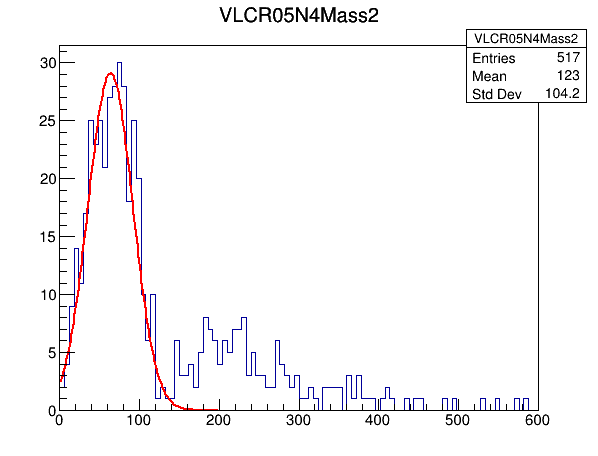
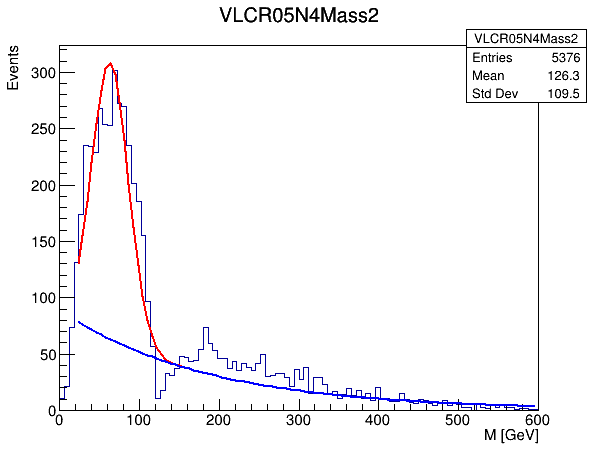
Adding Gaussians fit with exponential background

diff --git a/Delphes/src/AnalyzeM.C b/Delphes/src/AnalyzeM.C
@@ -55,13 +55,13 @@ void AnalyzeM(const char *inputFile, const char *outputFile){
 
      Int_t nEntries = tree_sig->GetEntries();
 
-     TH1D *VLCR05N4Mass1 = new TH1D("VLCR05N4Mass1", "VLCR05N4Mass1", 100 , 0, 300); 
+     TH1D *VLCR05N4Mass1 = new TH1D("VLCR05N4Mass1", "VLCR05N4Mass1", 100 , 0, 600); 
      TH1D *VLCR05N4Mass2 = new TH1D("VLCR05N4Mass2", "VLCR05N4Mass2", 100 , 0, 600); 
      TH1D *GenVLCMass2 = new TH1D("GenVLCMass2", "GenVLCMass2", 100 , 0, 600); 
      TH1D *VLCGenMass2Comp = new TH1D("VLCGenMass2Comp", "VLCGenMass2Comp", 100 , -1.5, 1.5); 
 
-     TH1D *AKTjetMass1 = new TH1D("AKTjetMass1", "AKTjetMass1", 100 , 0, 300); 
-     TH1D *AKTjetMass2 = new TH1D("AKTjetMass2", "AKTjetMass2", 100 , 0, 600); 
+     TH1D *AKTjetMass1 = new TH1D("AKTjetMass1", "Anti_KTjet leading jets pair invariant mass", 100 , 0, 600); 
+     TH1D *AKTjetMass2 = new TH1D("AKTjetMass2", "Anti_KTjet sub-leading jets pair invariant mass", 100 , 0, 600); 
      TH1D *GenAKTMass2 = new TH1D("GenAKTMass2", "GenAKTMass2", 100 , 0, 600); 
      TH1D *AKTGenMass2Comp = new TH1D("AKTGenMass2Comp", "AKTGenMass2Comp", 100 , -1.5, 1.5); 
      
@@ -261,7 +261,7 @@ void AnalyzeM(const char *inputFile, const char *outputFile){
 	     cout << "the second jet pair in the "<<entry<< "th event failed check."<<endl;	 
          }*/
 
-	 if (nAKTjet == 4) {
+	 if (nAKTjet >= 4) {
              //Pairing up leading anti-KT jet pair
 	     for(Int_t akt1entry=0; akt1entry < nAKTjet; akt1entry++){
 	         for(Int_t akt2entry=akt1entry+1; akt2entry < nAKTjet; akt2entry++){
@@ -351,9 +351,9 @@ void AnalyzeM(const char *inputFile, const char *outputFile){
 	             jet1DeltaR = jet1DeltaRtmp;
 		     jet1entry = gen1entry;
 		     if (jet1DeltaR < 0.5){
-		         //if (abs(Gen1eta) < 2.25){
+		         if (abs(Gen1eta) < 2.25){
 		             AKT1flag = true;
-		         //}
+		         }
 		     }
 	         }  
              }
@@ -366,9 +366,9 @@ void AnalyzeM(const char *inputFile, const char *outputFile){
 	                 jet2DeltaR = jet2DeltaRtmp;
 		         jet2entry = gen2entry;
                          if (jet2DeltaR < 0.5){
-		             //if (abs(Gen2eta) < 2.25){
+		             if (abs(Gen2eta) < 2.25){
 		                 AKT2flag = true;
-			     //}
+			     }
 		         }
 	             }
 	         }
@@ -411,49 +411,85 @@ void AnalyzeM(const char *inputFile, const char *outputFile){
          }
 	 GenUncutMass2->Fill(GenJetMass);
      }
-     TF1 *jetpair1gausfit = new TF1("jetpair1gausfit", "gaus",20,220);
-     TF1 *jetpair2gausfit = new TF1("jetpair2gausfit", "gaus",0,200);
-     
+     TF1 *jetpair1fit = new TF1("jetpair1fit", "gaus",10,200);
+     TF1 *jetpair2fit = new TF1("jetpair2fit", "gaus+expo(3)",20,600);
+     TF1 *fSignal = new TF1("fSignal","gaus",20,600);
+     TF1 *fBackground = new TF1("fBackground","expo",20,600);
+     Double_t param[5];
+
+
+
+     jetpair2fit->SetParameters(25,125,10,2,-0.0001);
+     jetpair2fit->SetParLimits(1,60,150);
+     jetpair2fit->SetParLimits(2,10,50);
+     jetpair2fit->SetParLimits(3,0,8);
+     jetpair2fit->SetParLimits(4,-1,-0.0001);
+
+
+	     
      TCanvas *mycanvas = new TCanvas("mycanvas","My Canvas",200,10,600,480);
      cout <<endl<< "Run gaussian fit for the leading Valencia jet pair..."<<endl;
-     VLCR05N4Mass1->Fit("jetpair1gausfit","R");
+     VLCR05N4Mass1->Fit("jetpair1fit","R");
      mycanvas->SaveAs("VLCR05N4pair1Mass.png");
      cout <<endl<< "Run gaussian fit for the sub-leading Valencia jet pair..."<<endl;
-     VLCR05N4Mass2->Fit("jetpair2gausfit","R");
+     
+     VLCR05N4Mass2->Fit("jetpair2fit","R");
+     jetpair2fit->GetParameters(param);
+     fSignal->SetParameters(&param[0]);
+     fBackground->SetParameters(&param[3]);
+     TH1D *VLCR05N4Mass2Signal = new TH1D(*VLCR05N4Mass2);
+     VLCR05N4Mass2Signal->Sumw2();
+     VLCR05N4Mass2Signal->Add(fBackground,-1);
+     VLCR05N4Mass2->GetXaxis()->SetTitle("M [GeV]");
+     VLCR05N4Mass2->GetYaxis()->SetTitle("Events");
+     VLCR05N4Mass2->Draw();fBackground->SetLineColor(4);fBackground->Draw("SAME"); 
+     //VLCR05N4Mass2Signal->Draw("SAME"); fSignal->Draw("SAME");
      mycanvas->SaveAs("VLCR05N4pair2Mass.png");
      cout <<endl<< "Run gaussian fit for the sub-leading GenJet pair under selection of VLC..."<<endl;
-     GenVLCMass2->Fit("jetpair2gausfit","R");
-     mycanvas->SaveAs("GenVLCMass2.png");
+     //GenVLCMass2->Fit("jetpair2fit","R");
+     //mycanvas->SaveAs("GenVLCMass2.png");
      cout <<endl<< "Run gaussian fit for the leading anti-KT jet pair..."<<endl;
-     AKTjetMass1->Fit("jetpair1gausfit","R");
+     AKTjetMass1->Fit("jetpair1fit","R");
      mycanvas->SaveAs("AKTjetpair1Mass.png");
      cout <<endl<< "Run gaussian fit for the sub-leading anti-KT jet pair..."<<endl;
-     AKTjetMass2->Fit("jetpair2gausfit","R");
+
+
+     AKTjetMass2->Fit("jetpair2fit","R");
+     jetpair2fit->GetParameters(param);
+     fSignal->SetParameters(&param[0]);
+     fBackground->SetParameters(&param[3]);
+     TH1D *AKTjetMass2Signal = new TH1D(*AKTjetMass2);
+     AKTjetMass2Signal->Sumw2();
+     AKTjetMass2Signal->Add(fBackground,-1);
+     AKTjetMass2->GetXaxis()->SetTitle("M [GeV]");
+     AKTjetMass2->GetYaxis()->SetTitle("Events");
+     AKTjetMass2->Draw();fBackground->SetLineColor(4);fBackground->Draw("SAME"); 
+     //AKTjetMass2Signal->Draw("SAME"); fSignal->Draw("SAME");
      mycanvas->SaveAs("AKTjetpair2Mass.png");
      cout <<endl<< "Run gaussian fit for the sub-leading GenJet pair under selection of AKT..."<<endl;
-     GenAKTMass2->Fit("jetpair2gausfit","R");
-     mycanvas->SaveAs("GenAKTMass2.png");
+     //GenAKTMass2->Fit("jetpair2fit","R");
+     //mycanvas->SaveAs("GenAKTMass2.png");
      cout <<endl<< "Run gaussian fit for the sub-leading GenJet pair (Uncut)..."<<endl;
-     GenUncutMass2->Fit("jetpair2gausfit","R");
-     mycanvas->SaveAs("GenUncutMass2.png");
+     //GenUncutMass2->Fit("jetpair2fit","R");
+     //mycanvas->SaveAs("GenUncutMass2.png");
 
 
-     VLCGenMass2Comp->Draw();
-     mycanvas->SaveAs("VLCGenMass2Comp.png");
-     AKTGenMass2Comp->Draw();
-     mycanvas->SaveAs("AKTGenMass2Comp.png");
+     //VLCGenMass2Comp->Draw();
+     //mycanvas->SaveAs("VLCGenMass2Comp.png");
+     //AKTGenMass2Comp->Draw();
+     //mycanvas->SaveAs("AKTGenMass2Comp.png");
 
      cout <<endl<< "Output in TTree..."<<endl;
 
      VLCR05N4Mass1->Write();
      VLCR05N4Mass2->Write();
-     GenVLCMass2->Write();
-     VLCGenMass2Comp->Write();
+     //GenVLCMass2->Write();
+     //VLCGenMass2Comp->Write();
      AKTjetMass1->Write();
      AKTjetMass2->Write();
-     GenAKTMass2->Write();
-     AKTGenMass2Comp->Write();
-     GenUncutMass2->Write();
+     //GenAKTMass2->Write();
+     //AKTGenMass2Comp->Write();
+     //GenUncutMass2->Write();
 
      tree_output->Write();
 

diff --git a/Delphes/README.md b/Delphes/README.md
@@ -45,7 +45,7 @@ The process will take about 5-60 min, suggest working on vncserver or add follow
 Don't forget to gunzip the .hepmc.tar.gz for preparation for delphes simulation:
 ```bash 
 cd <your output directory>/Events/run_01/
-gunzip tag_1_pythia8_events.hepmc.tar.gz
+gunzip tag_1_pythia8_events.hepmc.gz
 ```
 ## Detector simulation on Delphes
 ### Installation of Delphes
